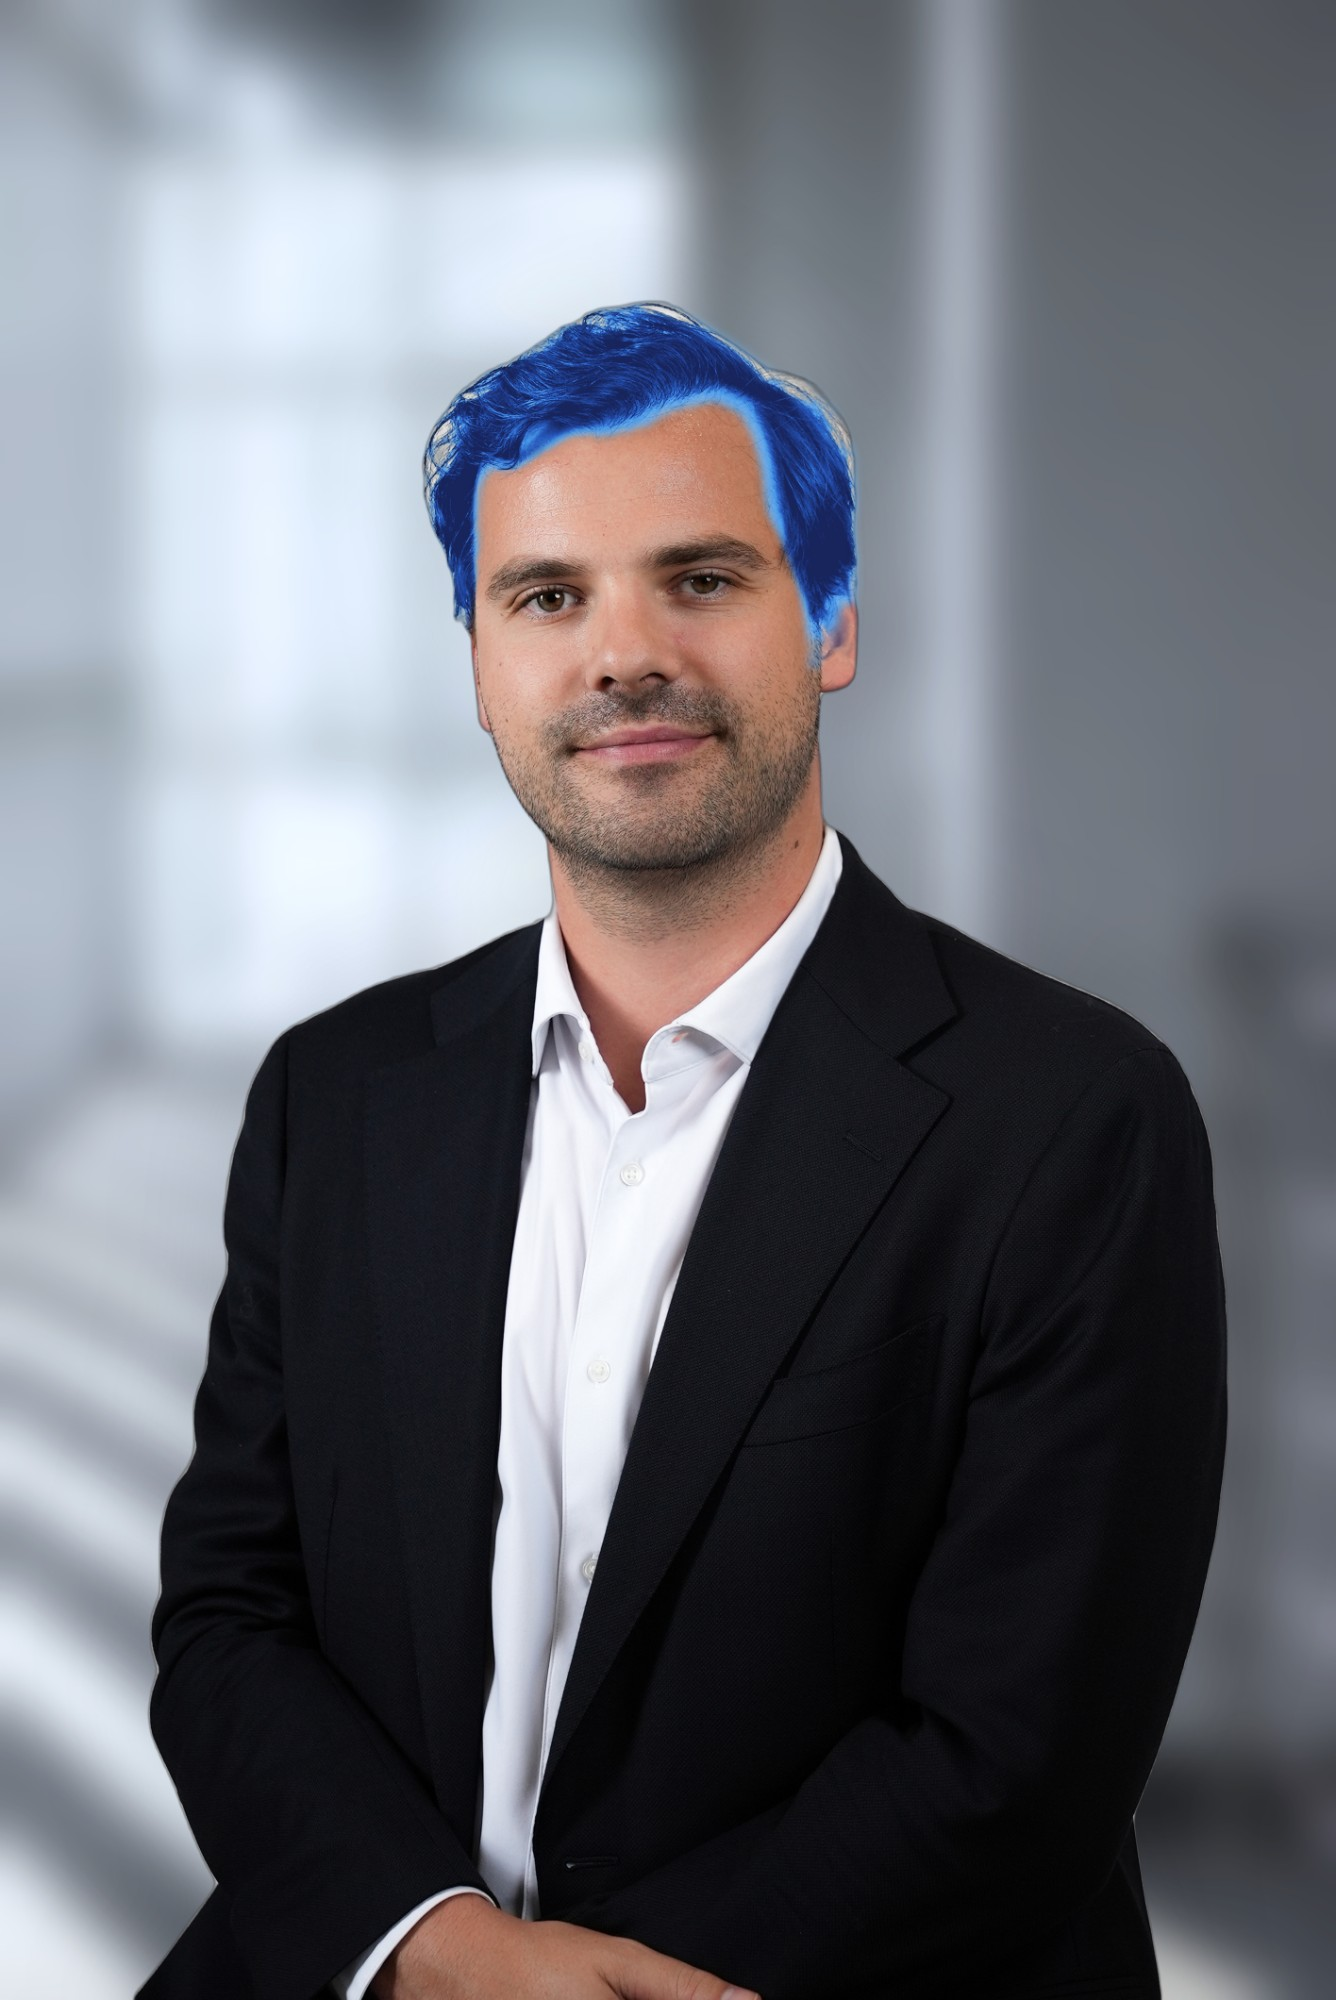
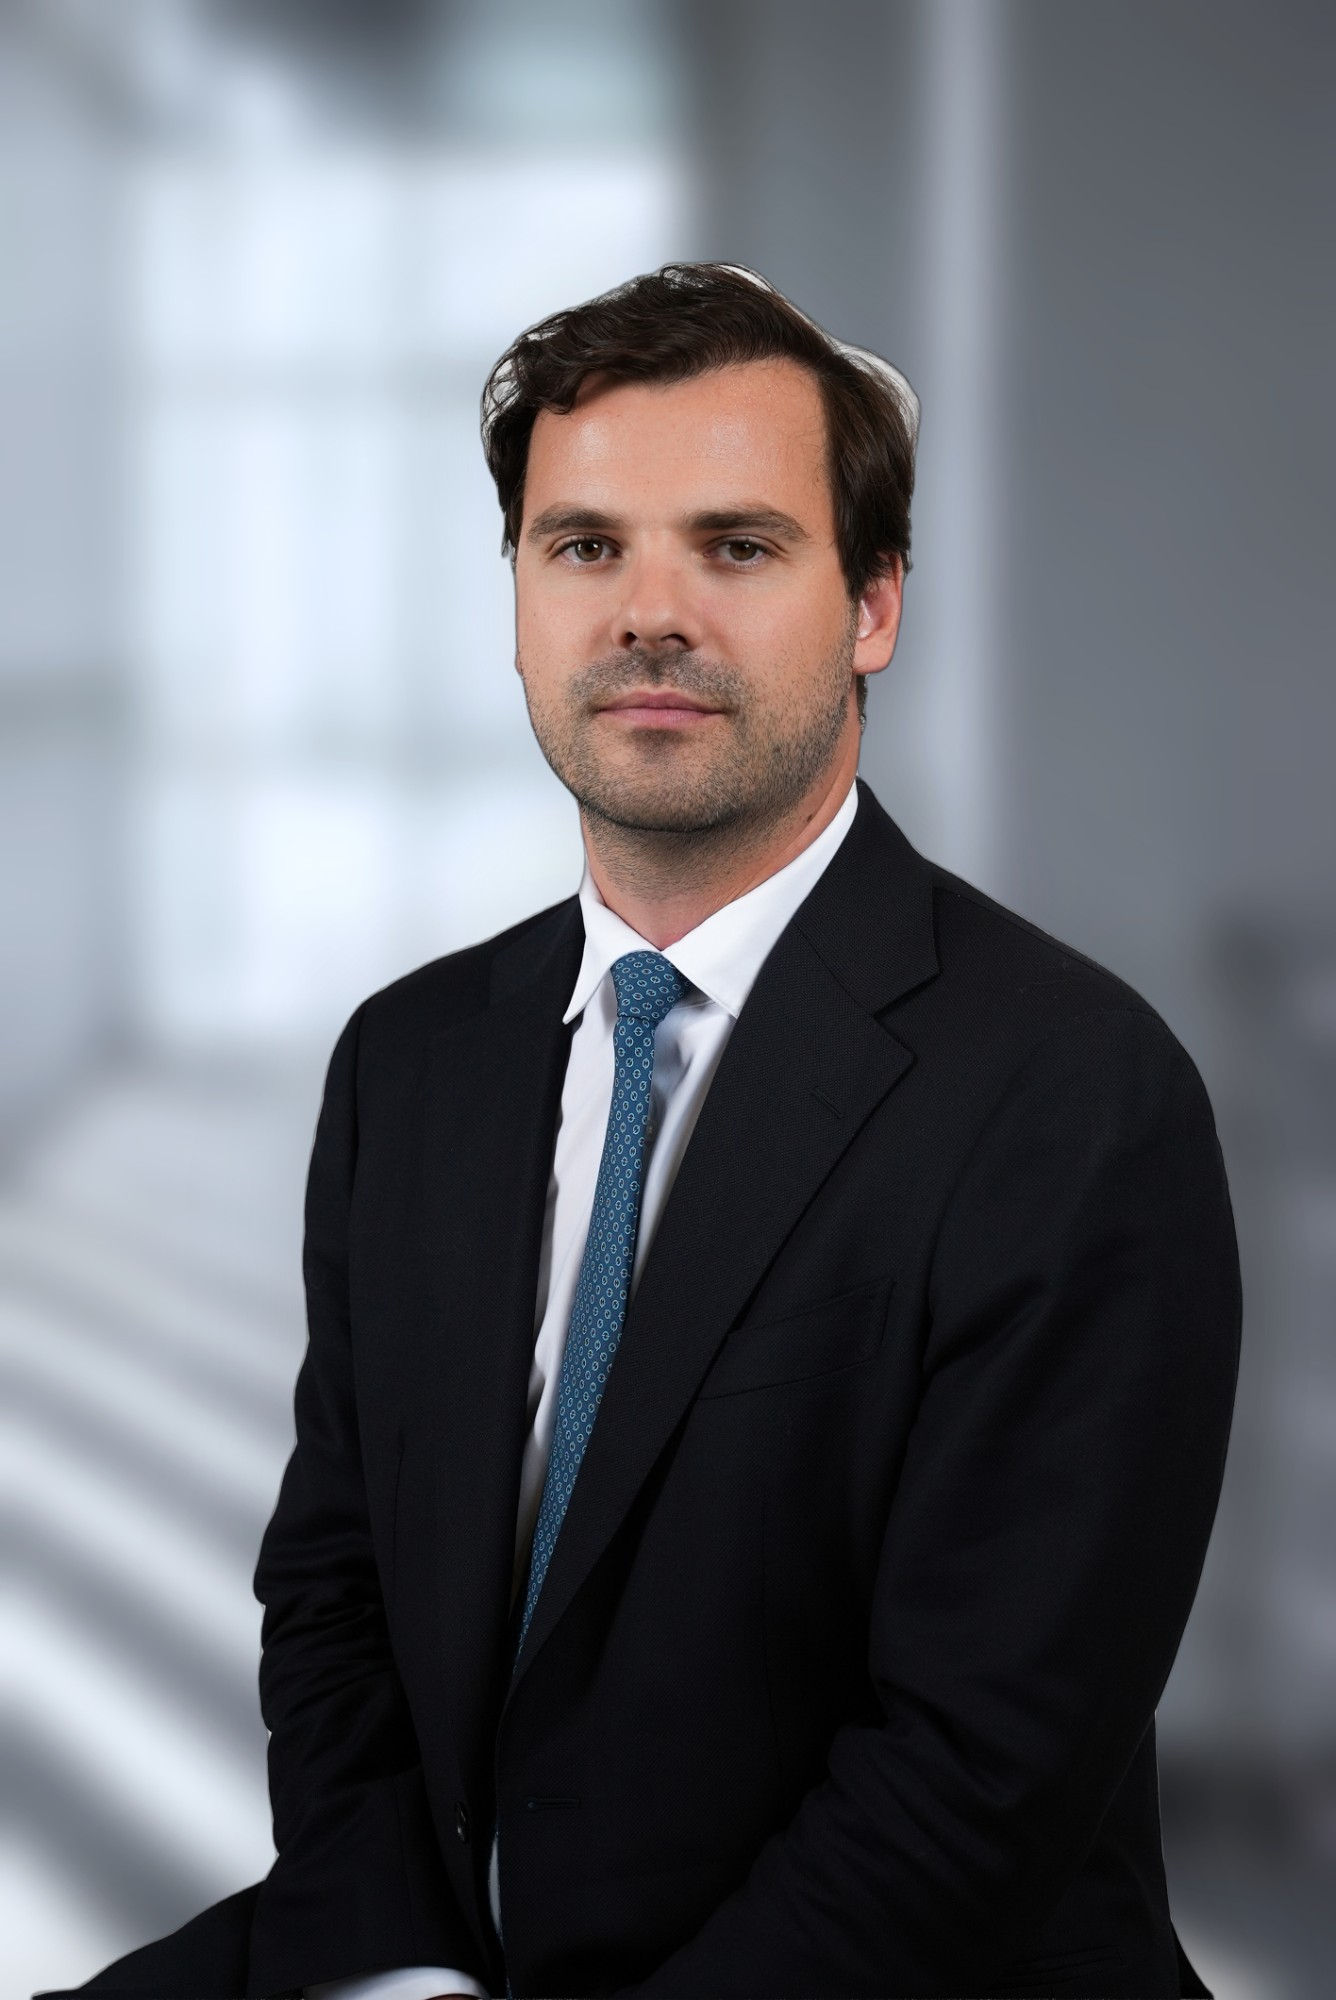
Add Grégoire's biography and swap in the corridor headshots
- Grégoire's placeholder text is replaced with his real two-paragraph
  biography, so no member card carries placeholder copy any more.
- The three portraits become the corridor set, mapped as Joe confirmed:
  headshot-2 is Joe, headshot-4 is Adrien, headshot-6 is Grégoire. They keep
  the same filenames as the images they replace, so team.ts needed no change.
- Photo-couleur-Joe.jpeg and Photo-couleur-Adrien.jpeg are deleted; nothing
  referenced them and git history holds them if they are ever wanted back.

diff --git a/src/data/team.ts b/src/data/team.ts
@@ -7,7 +7,8 @@
 //   role  – title under the name
 //   bio   – a paragraph of biography, or an array of paragraphs
 //   image – filename in src/assets/images/; omit it and the card renders a
-//           neutral placeholder block instead of a photograph
+//           neutral placeholder block instead of a photograph (all three
+//           members currently have one)
 // ---------------------------------------------------------------------------
 
 export interface TeamMember {
@@ -43,7 +44,10 @@ export const team: TeamMember[] = [
   {
     name: 'Grégoire Schimpff',
     role: 'Head of Debt Advisory',
-    bio: 'PLACEHOLDER — biography to follow. Replace this paragraph, and add a portrait to src/assets/images/ and name it in the `image` field, when they are ready.',
+    bio: [
+      'Grégoire is a structured finance specialist with experience across the energy and climate infrastructure sectors. He has advised companies ranging from scale-ups to major energy groups on capital structure solutions, financing strategy and access to institutional capital.',
+      'Before joining Maxwell, he held roles at Jefferies, Kepler Cheuvreux, HSBC and Société Générale where he developed a broad network of lenders and investors. His experience includes designing and implementing tailored capital structures and financing platforms, as well as structuring complex financing solutions to support capital-intensive businesses through growth and strategic development.',
+    ],
     image: 'headshot-Gregoire.jpg',
   },
 ];
